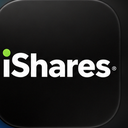
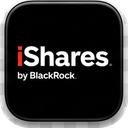
Logotipo propio para las acciones, no solo para los fondos
La insignia de una posición solo sabía de gestoras: Vanguard, iShares,
Schwab y compañía. Una acción suelta no tiene gestora detrás, así que
AAPL, MSFT o TTWO salían siempre con el ticker en una caja gris.

Se añade un mapa de empresas en paralelo al de gestoras, y una función
`logotipoDe` que resuelve el que toque —el de quien emite el fondo, o el
de la propia empresa si es una acción—. La insignia pasa a preguntarle a
ella y deja de saber de cuál de los dos vino.

Van aparte y no en el mismo mapa porque no son lo mismo: Vanguard le
presta su logotipo a cuarenta y ocho fondos, mientras que el de Apple es
de AAPL y de nada más. Mezclarlos invitaría a colgar de «Apple» cualquier
cosa que empiece por AA — el mismo error contra el que ya avisa el
comentario de cabecera del archivo.

Seis logotipos nuevos: Apple (AAPL), Google (GOOGL y GOOG), Microsoft
(MSFT), Take-Two (TTWO) y SanDisk (SNDK) en public/brands, más el de
iShares, que reemplaza al que había por la versión con «by BlackRock».

Venían en un pliego JPG sobre fondo de damero, así que se recortaron por
detección del damero —los siete cuadros salen a 249 px— y se les aplicó
una máscara de esquinas redondeadas con supermuestreo, para que el borde
no quede dentado y el damero no asome por las esquinas. Quedan a 128 px
RGBA, como los que ya había.

La etiqueta del ticker que acompaña al nombre sigue la misma regla que
antes, ahora con el criterio nuevo: se pinta cuando la insignia es un
[…]

diff --git a/lib/issuers.ts b/lib/issuers.ts
@@ -14,6 +14,14 @@ export interface Issuer {
   logo: string
 }
 
+/**
+ * Un logotipo con su nombre: sirve igual para una gestora y para una empresa.
+ * Son la misma cosa en pantalla —la imagen de la insignia— y solo se
+ * diferencian en de dónde cuelgan: el fondo lo hereda de quien lo emite, la
+ * acción lo tiene por sí misma.
+ */
+export type Logotipo = Issuer
+
 export const ISSUERS: Record<string, Issuer> = {
   vanguard: { id: 'vanguard', name: 'Vanguard', logo: '/issuers/vanguard.png' },
   ishares: { id: 'ishares', name: 'iShares', logo: '/issuers/ishares.png' },
@@ -379,8 +387,38 @@ export function nombreVisible(symbol: string, guardado?: string): string {
   return nombreDe(s) ?? guardado ?? s
 }
 
-/** Emisora de un símbolo, si se conoce. */
+/** Emisora de un símbolo, si se conoce. Solo fondos. */
 export function issuerOf(symbol: string): Issuer | undefined {
   const id = POR_TICKER[symbol.trim().toUpperCase()]
   return id ? ISSUERS[id] : undefined
+}
+
+/**
+ * Logotipo propio de una empresa, para las acciones sueltas.
+ *
+ * Va aparte de ISSUERS porque no es lo mismo: Vanguard le presta su logotipo a
+ * cuarenta y ocho fondos, mientras que el de Apple es de AAPL y de nada más.
+ * Mezclarlos invitaría a colgar de «Apple» cualquier cosa que empiece por AA.
+ *
+ * Mapa explícito, por el mismo motivo que el de gestoras: sin reglas.
+ */
+const EMPRESAS: Record<string, Logotipo> = {
+  AAPL: { id: 'apple', name: 'Apple', logo: '/brands/apple.png' },
+  MSFT: { id: 'microsoft', name: 'Microsoft', logo: '/brands/microsoft.png' },
+  GOOGL: { id: 'google', name: 'Google', logo: '/brands/google.png' },
+  GOOG: { id: 'google', name: 'Google', logo: '/brands/google.png' },
+  TTWO: { id: 'take-two', name: 'Take-Two Interactive', logo: '/brands/take-two.png' },
+  SNDK: { id: 'sandisk', name: 'SanDisk', logo: '/brands/sandisk.png' },
+}
+
+/**
+ * El logotipo que le toca a un símbolo: el de su gestora si es un fondo, el de
+ * su empresa si es una acción. Es lo que necesita la insignia, que no tiene
+ * por qué saber de cuál de los dos vino.
+ *
+ * La gestora manda cuando hay las dos: un fondo se reconoce por quien lo
+ * emite, y el ticker de un fondo no es el de ninguna empresa de la lista.
+ */
+export function logotipoDe(symbol: string): Logotipo | undefined {
+  return issuerOf(symbol) ?? EMPRESAS[symbol.trim().toUpperCase()]
 }

diff --git a/components/ui/issuer-badge.tsx b/components/ui/issuer-badge.tsx
@@ -1,6 +1,6 @@
 'use client'
 
-import { issuerOf } from '@/lib/issuers'
+import { logotipoDe } from '@/lib/issuers'
 import { cn } from '@/lib/utils'
 
 const CAJA = {
@@ -10,12 +10,16 @@ const CAJA = {
 } as const
 
 /**
- * Distintivo de una posición: el logotipo de la gestora del fondo si se
- * conoce, y si no el ticker en una caja neutra.
+ * Distintivo de una posición: su logotipo si se conoce, y si no el ticker en
+ * una caja neutra.
  *
- * El respaldo importa tanto como el logotipo: la mayoría de posiciones son
- * acciones sueltas, que no tienen gestora detrás, y ahí el ticker es
- * exactamente la información que hace falta.
+ * El logotipo puede venir de dos sitios —la gestora del fondo o la propia
+ * empresa, si es una acción— y aquí da igual cuál de los dos: `logotipoDe`
+ * resuelve esa pregunta y la insignia solo pinta lo que le den.
+ *
+ * El respaldo sigue importando tanto como el logotipo: de la mayoría de las
+ * acciones no se tiene ninguno, y ahí el ticker es exactamente la información
+ * que hace falta.
  */
 export function IssuerBadge({
   symbol, size = 'md', className,
@@ -24,18 +28,18 @@ export function IssuerBadge({
   size?: keyof typeof CAJA
   className?: string
 }) {
-  const issuer = issuerOf(symbol)
+  const marca = logotipoDe(symbol)
   const caja = CAJA[size]
 
-  if (issuer) {
+  if (marca) {
     return (
       // Imagen normal y no next/image: son PNG locales de 128 px que ya pesan
       // lo que deben, y así no pasan por el optimizador en cada despliegue.
       // eslint-disable-next-line @next/next/no-img-element
       <img
-        src={issuer.logo}
-        alt={issuer.name}
-        title={issuer.name}
+        src={marca.logo}
+        alt={marca.name}
+        title={marca.name}
         loading="lazy"
         className={cn('shrink-0 object-cover', caja, className)}
       />

diff --git a/components/investments/holding-row.tsx b/components/investments/holding-row.tsx
@@ -4,7 +4,7 @@ import { useRef } from 'react'
 import { motion } from 'framer-motion'
 import { Trash2 } from 'lucide-react'
 import { IssuerBadge } from '@/components/ui/issuer-badge'
-import { issuerOf, nombreVisible } from '@/lib/issuers'
+import { logotipoDe, nombreVisible } from '@/lib/issuers'
 import { formatMoney, formatPercent, formatQuantity } from '@/lib/format'
 import type { Currency, Holding, Quote } from '@/lib/types'
 import { cn, haptic } from '@/lib/utils'
@@ -41,9 +41,9 @@ export function HoldingRow({
    * que deducirlo del logotipo. Va como código y no como texto corrido para
    * que se distinga de un vistazo del nombre comercial.
    *
-   * Solo cuando la insignia es un logotipo. Sin gestora conocida, la insignia
+   * Solo cuando la insignia es un logotipo. Sin logotipo conocido, la insignia
    * ya es el propio ticker en una caja, así que la etiqueta lo repetiría dos
-   * centímetros más a la derecha: «AAPL  AAPL  Apple Inc.».
+   * centímetros más a la derecha: «NVDA  NVDA  NVIDIA Corporation».
    *
    * Y si tampoco se conoce el nombre, `nombreVisible` devuelve el ticker; ahí
    * la etiqueta se queda sola, sin repetirlo detrás.
@@ -51,7 +51,7 @@ export function HoldingRow({
   const ticker = holding.symbol.trim().toUpperCase()
   const nombre = nombreVisible(holding.symbol, holding.name)
   const hayNombre = nombre.trim().toUpperCase() !== ticker
-  const enEtiqueta = Boolean(issuerOf(holding.symbol))
+  const enEtiqueta = Boolean(logotipoDe(holding.symbol))
 
   // Solo un precio real y fresco cuenta como "en vivo": sin esto mostraríamos
   // un 0,00 % en verde que se lee como sesión plana cuando no hay ni un dato.
